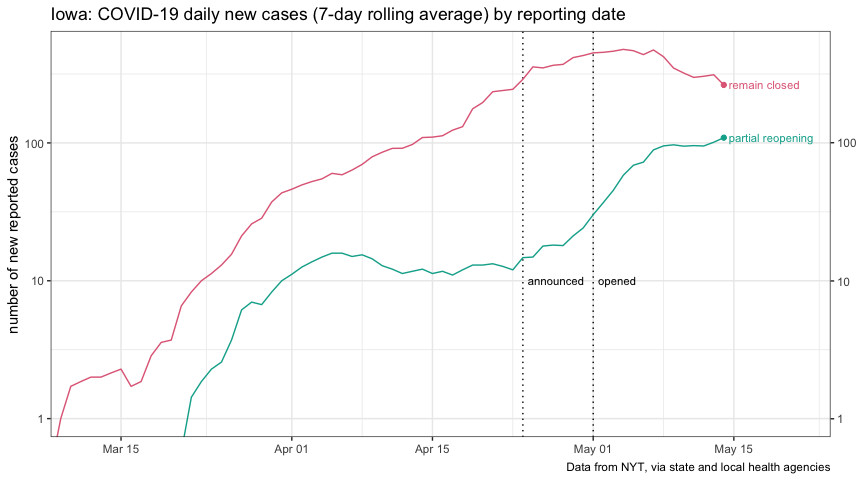
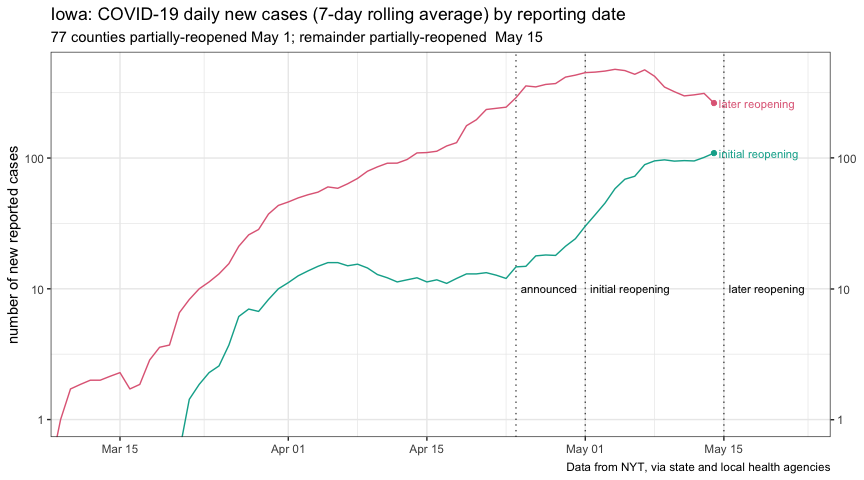
add May-15 opening

diff --git a/ijlyttle/03-Plots.md b/ijlyttle/03-Plots.md
@@ -9,14 +9,14 @@ library("glue")
 library("tidyverse")
 ```
 
-    ## ── Attaching packages ──────────────────────────────────────────────────── tidyverse 1.3.0 ──
+    ## ── Attaching packages ────────────────────────────────────────────────── tidyverse 1.3.0 ──
 
     ## ✓ ggplot2 3.3.0          ✓ purrr   0.3.3     
     ## ✓ tibble  2.1.3          ✓ dplyr   0.8.4     
     ## ✓ tidyr   1.0.0          ✓ stringr 1.4.0     
     ## ✓ readr   1.3.1.9000     ✓ forcats 0.4.0
 
-    ## ── Conflicts ─────────────────────────────────────────────────────── tidyverse_conflicts() ──
+    ## ── Conflicts ───────────────────────────────────────────────────── tidyverse_conflicts() ──
     ## x dplyr::collapse() masks glue::collapse()
     ## x dplyr::filter()   masks stats::filter()
     ## x dplyr::lag()      masks stats::lag()
@@ -965,8 +965,8 @@ iowa_repoen <-
 
 iowa_reopen_annotate <-
   tibble(
-    date = as.Date(c("2020-04-24", "2020-05-01")),
-    event = c("announced", "opened")
+    date = as.Date(c("2020-04-24", "2020-05-01", "2020-05-15")),
+    event = c("announced", "initial reopening", "later reopening")
   )
 ```
 
@@ -976,7 +976,8 @@ plot_repoen_cases <-
   geom_vline(
     data = iowa_reopen_annotate,
     aes(xintercept = date),
-    linetype = "dotted"
+    linetype = "dotted",
+    alpha = 0.7
   ) +   
   geom_text(
     data = iowa_reopen_annotate,
@@ -995,7 +996,7 @@ plot_repoen_cases <-
     data = 
       . %>% 
       filter(date == max(date)) %>%
-      mutate(label = ifelse(open_may_01, "partial reopening", "remain closed")),
+      mutate(label = ifelse(open_may_01, "initial reopening", "later reopening")),
     aes(label = label, color = open_may_01),
     hjust = "left",
     nudge_x = .5,
@@ -1015,8 +1016,8 @@ plot_repoen_cases <-
   labs(
     x = NULL,
     y = "number of reported cases",
-    color = 'county "re-opening" May 1',
     title = "Iowa: COVID-19 cumulative-case trajectories",
+    subtitle = "77 counties partially-reopened May 1; remainder partially-reopened May 15",
     caption = params$nyt_citation  
   )
 ```
@@ -1027,7 +1028,8 @@ plot_repoen_new_cases <-
   geom_vline(
     data = iowa_reopen_annotate,
     aes(xintercept = date),
-    linetype = "dotted"
+    linetype = "dotted",
+    alpha = 0.7
   ) +   
   geom_text(
     data = iowa_reopen_annotate,
@@ -1046,7 +1048,7 @@ plot_repoen_new_cases <-
     data = 
       . %>% 
       filter(date == max(date)) %>%
-      mutate(label = ifelse(open_may_01, "partial reopening", "remain closed")),
+      mutate(label = ifelse(open_may_01, "initial reopening", "later reopening")),
     aes(label = label, color = open_may_01),
     hjust = "left",
     nudge_x = .5,
@@ -1066,8 +1068,8 @@ plot_repoen_new_cases <-
   labs(
     x = NULL,
     y = "number of new reported cases",
-    color = 'county "re-opening" May 1',
     title = "Iowa: COVID-19 daily new cases (7-day rolling average) by reporting date",
+    subtitle = "77 counties partially-reopened May 1; remainder partially-reopened  May 15",
     caption = params$nyt_citation  
   )
 ```
